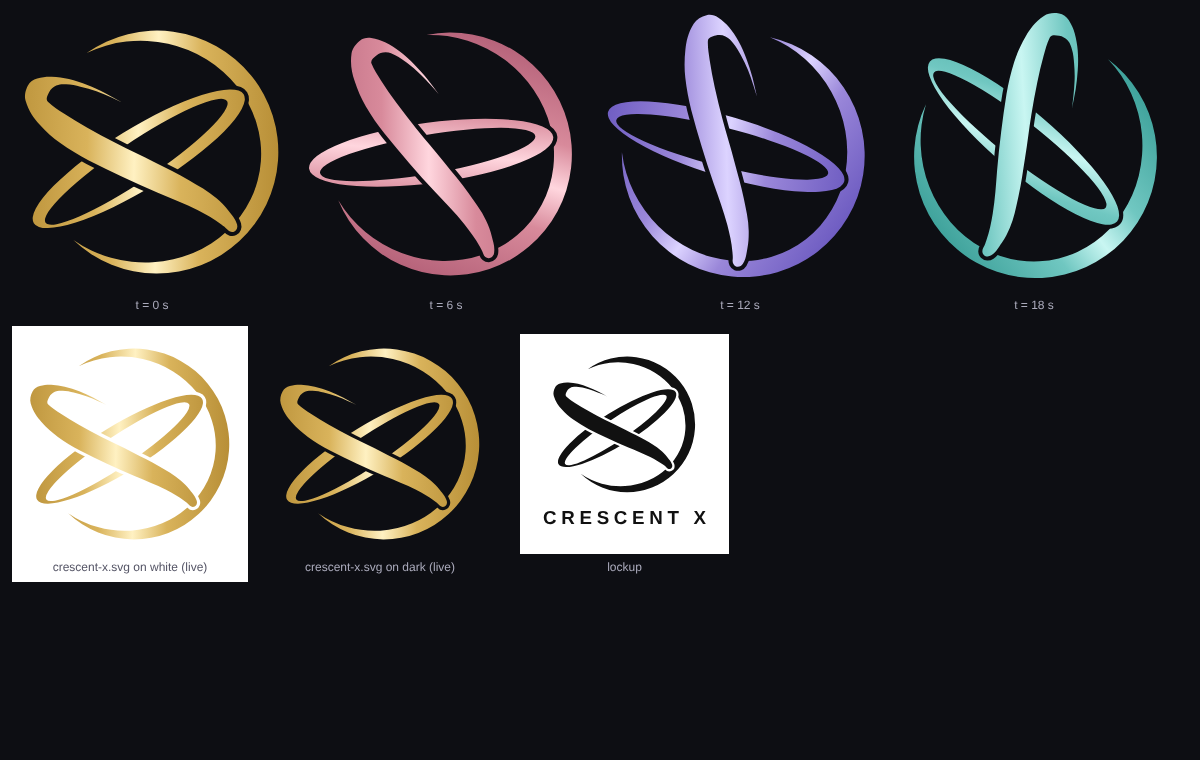
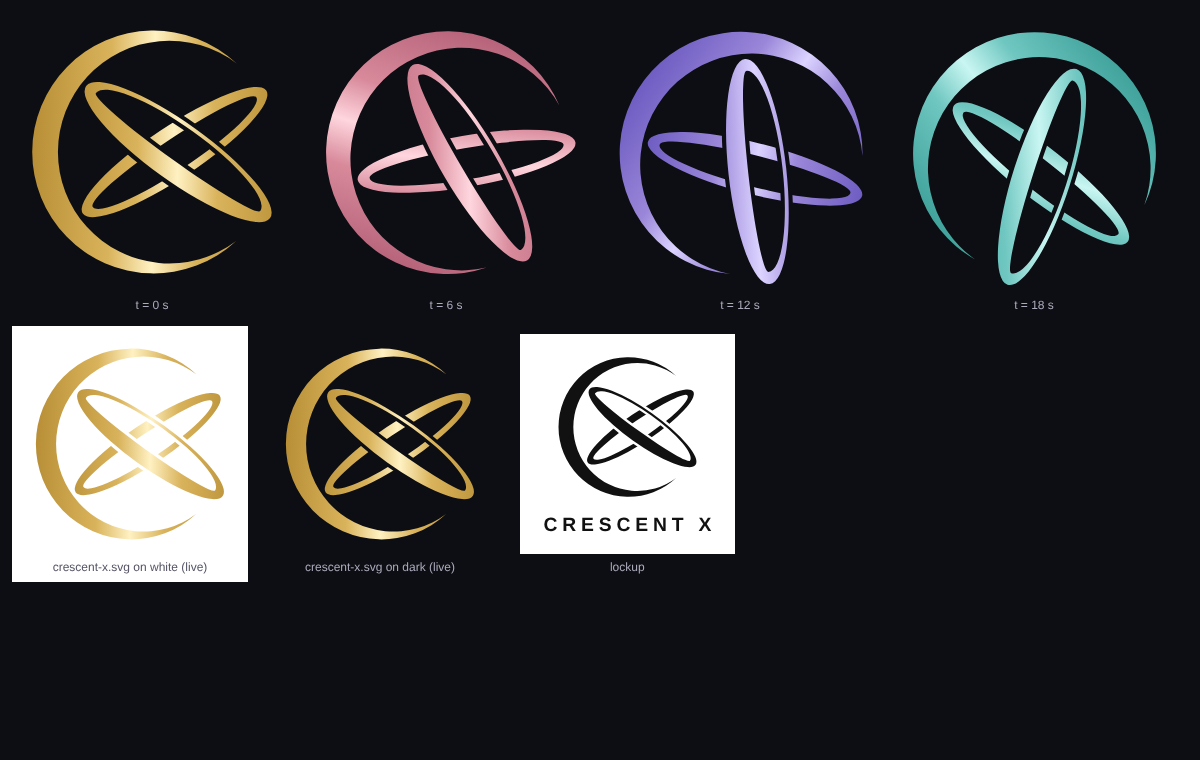
Finish the Crescent X mark: flipped crescent, inset rings, teal variant, animation
Crescent now faces right with mirrored horns; rings sit inside the opening
with matching junctions. Adds the teal colour variant, lockup, animated
mark with slow spin and colour cycle, and the frames proof.

Claude-Session: https://claude.ai/code/session_01HJ7svxD6zD3sQmr4yuV3M5

diff --git a/brand/work/crescent-x/final/preview.html b/brand/work/crescent-x/final/preview.html
@@ -47,9 +47,9 @@
 </div>
 <div class="box colour"><span class="lab">crescent-x-colour.svg</span><img src="crescent-x-colour.svg"></div>
 <div class="box lockup"><span class="lab">lockup</span><img src="crescent-x-lockup.svg"></div>
-<div class="box zoom" style="left:10px"><span class="lab">x1 tip / crescent (top-left)</span><img src="crescent-x-mono.svg" style="width:768px;height:768px;left:-103px;top:-144px"></div>
-<div class="box zoom" style="left:250px"><span class="lab">x2 tip / crescent (bottom-left)</span><img src="crescent-x-mono.svg" style="width:768px;height:768px;left:-96px;top:-453px"></div>
-<div class="box zoom" style="left:490px"><span class="lab">X centre weave</span><img src="crescent-x-mono.svg" style="width:768px;height:768px;left:-289px;top:-304px"></div>
-<div class="box zoom" style="left:730px"><span class="lab">x2 end / upper horn</span><img src="crescent-x-mono.svg" style="width:768px;height:768px;left:-550px;top:-170px"></div>
-<div class="box zoom" style="left:970px"><span class="lab">x1 end / lower horn</span><img src="crescent-x-mono.svg" style="width:768px;height:768px;left:-557px;top:-449px"></div>
+<div class="box zoom" style="left:10px"><span class="lab">x1 tip / crescent (top-left)</span><img src="crescent-x-mono.svg" style="width:768px;height:768px;left:-99px;top:-139px"></div>
+<div class="box zoom" style="left:250px"><span class="lab">x2 tip / crescent (bottom-left)</span><img src="crescent-x-mono.svg" style="width:768px;height:768px;left:-92px;top:-462px"></div>
+<div class="box zoom" style="left:490px"><span class="lab">X centre weave</span><img src="crescent-x-mono.svg" style="width:768px;height:768px;left:-291px;top:-304px"></div>
+<div class="box zoom" style="left:730px"><span class="lab">x2 end / upper horn</span><img src="crescent-x-mono.svg" style="width:768px;height:768px;left:-555px;top:-161px"></div>
+<div class="box zoom" style="left:970px"><span class="lab">x1 end / lower horn</span><img src="crescent-x-mono.svg" style="width:768px;height:768px;left:-568px;top:-454px"></div>
 </body></html>

diff --git a/brand/work/crescent-x/final/gen_mark.py b/brand/work/crescent-x/final/gen_mark.py
@@ -49,10 +49,13 @@ R = 222.0            # crescent outer radius
 HORN_DEG = 47.0      # horn tips at +/- HORN_DEG from the horizontal (about 1:25 and 4:35 o'clock)
 THICK = 47.0         # maximum crescent thickness, at 9 o'clock (10.6 % of the outer diameter)
 
-# rings: outer ellipse A x B, lens a x b, lens offset d along the ring's +n axis, tilt th (deg)
-# (+n = (-sin th, cos th): down-left for the descending ring, down-right for the ascending one)
-X1 = dict(A=200.0, B=49.0, a=179.0, b=24.0, d=-19.0, th=35.0)   # thick (+n) lower-left edge 44 u, thin 6 u
-X2 = dict(A=196.0, B=48.0, a=176.0, b=30.0, d=6.0, th=-33.0)    # thick (-n) upper-left edge 24 u, thin 12 u
+# rings: outer ellipse A x B; lens = two half-ellipses of half-length a sharing their tips on the
+# ring's long axis, semi-minor bt on the thick side and bn on the thin side; side = +1 / -1 says
+# which side of the axis (+n = (-sin th, cos th): down-left for the descending ring, down-right
+# for the ascending one) carries the thick band; th = tilt (deg).  Band thickness at the centre:
+# thick B - bt, thin B - bn; the thin edge stays >= its centre value all the way to the tips.
+X1 = dict(A=207.0, B=53.0, a=185.0, bt=17.0, bn=46.5, side=+1, th=35.5)   # descending: thick lower-left edge 36 u, thin 6.5 u
+X2 = dict(A=202.0, B=47.0, a=180.0, bt=24.0, bn=33.0, side=-1, th=-34.0)  # ascending: thick upper-left edge 23 u, thin 14 u
 
 TITLE = "Crescent X"
 ARIA = "Crescent X, the Kubrique logo mark: a lunar crescent facing right and two interlocking orbital rings forming an X"
@@ -138,12 +141,35 @@ def crescent_path(O, I):
     return d, [("outer", outer), ("inner", inner)], horns
 
 
+class Lens:
+    """two half-ellipses (same centre, tilt and half-length a) sharing their tips on the long axis:
+    semi-minor b_plus on the +n side (local t in [0, pi)), b_minus on the -n side"""
+    def __init__(self, cx, cy, a, b_plus, b_minus, th_deg):
+        self.P, self.M = Ell(cx, cy, a, b_plus, th_deg), Ell(cx, cy, a, b_minus, th_deg)
+        self.cx, self.cy, self.a, self.th = cx, cy, a, th_deg
+
+    def pt(self, t):
+        t = t % (2 * math.pi)
+        return (self.P if t < math.pi else self.M).pt(t)
+
+    def inside(self, p):
+        x, y = self.P.local(p)
+        b = self.P.b if y >= 0 else self.M.b
+        return (x / self.a) ** 2 + (y / b) ** 2 < 1.0
+
+    def whole(self):
+        p0 = self.P.pt(0.0)
+        return f"M{f(p0[0])} {f(p0[1])} {self.P.arc(0.0, math.pi)} {self.M.arc(math.pi, 0.0)} Z"
+
+    def poly(self, n=720):
+        return [self.pt(2 * math.pi * i / n) for i in range(n + 1)]
+
+
 def ring(spec, cx, cy):
     """outer ellipse and lens for a ring spec centred at (cx, cy)"""
-    th = math.radians(spec["th"])
-    nx, ny = -math.sin(th), math.cos(th)
     E = Ell(cx, cy, spec["A"], spec["B"], spec["th"])
-    L = Ell(cx + spec["d"] * nx, cy + spec["d"] * ny, spec["a"], spec["b"], spec["th"])
+    bp, bm = (spec["bt"], spec["bn"]) if spec["side"] > 0 else (spec["bn"], spec["bt"])
+    L = Lens(cx, cy, spec["a"], bp, bm, spec["th"])
     return E, L
 
 
@@ -361,7 +387,6 @@ LK_SCALE, LK_FS, LK_LS = 1.5, 92.0, 0.25
 LK_CAP = 0.70 * LK_FS                       # Montserrat / Jost cap height ~0.70 em
 LK_TOP = 111.0                              # top margin to the mark's top (= bottom margin below the baseline)
 LK_X = (1024 - 512 * LK_SCALE) / 2
-LK_Y = LK_TOP - _by0 * LK_SCALE - 256 * LK_SCALE + 256 * LK_SCALE  # placeholder, fixed below
 
 
 def svg_lockup(ink=INK):
@@ -369,9 +394,9 @@ def svg_lockup(ink=INK):
     bottom_of_mark = 256 + _by1
     ty = LK_TOP - top_of_mark * LK_SCALE
     mark_bottom = ty + bottom_of_mark * LK_SCALE
-    gap = 1.5 * LK_CAP
-    baseline = mark_bottom + gap + LK_CAP
-    height = baseline + LK_TOP
+    height = 10 * math.ceil((mark_bottom + 1.5 * LK_CAP + LK_CAP + LK_TOP) / 10)   # round canvas height
+    baseline = height - LK_TOP
+    gap = baseline - LK_CAP - mark_bottom               # >= 1.5 cap heights of clear space
     return f'''<svg xmlns="http://www.w3.org/2000/svg" xmlns:xlink="http://www.w3.org/1999/xlink" viewBox="0 0 1024 {f(height)}" width="1024" height="{f(height)}" role="img" aria-label="{ARIA}, with the wordmark CRESCENT X">
   <title>{TITLE}</title>
 {WEAVE_COMMENT}
@@ -505,17 +530,15 @@ def diagnostics():
         best, where, bad = ring_clearance(E)
         tip = min(E.poly(720), key=lambda p: p[0])
         end = max(E.poly(720), key=lambda p: p[0])
-        worst = 99
-        for i in range(720):
-            q = L.pt(2 * math.pi * i / 720)
-            x, y = E.local(q)
-            k = 1 / math.sqrt((x / E.a) ** 2 + (y / E.b) ** 2)
-            worst = min(worst, (k - 1) * math.hypot(x, y))
-        out.append(f"{name}: centre ({E.cx:.1f},{E.cy:.1f}) tilt {spec['th']} deg, bands {spec['B'] - spec['b'] + abs(spec['d']):.0f} / "
-                   f"{spec['B'] - spec['b'] - abs(spec['d']):.0f} u, thinnest {worst:.1f} u; left tip ({tip[0]:.1f},{tip[1]:.1f}) "
+        outer = E.poly(1440)
+        worst = min(min(math.hypot(q[0] - p[0], q[1] - p[1]) for p in outer[::4]) for q in L.poly(360))
+        cres = [p for _, pts in CRES_EDGES for p in pts[::2]]
+        right = min(min(math.hypot(q[0] - p[0], q[1] - p[1]) for p in cres) for q in outer[::4] if q[0] > E.cx)
+        out.append(f"{name}: centre ({E.cx:.1f},{E.cy:.1f}) tilt {spec['th']} deg, bands {spec['B'] - spec['bt']:.0f} / "
+                   f"{spec['B'] - spec['bn']:.0f} u at the centre, thinnest edge {worst:.1f} u; left tip ({tip[0]:.1f},{tip[1]:.1f}) "
                    f"clearance to the crescent {best:.1f} u at ({where[0]:.0f},{where[1]:.0f}); right tip ({end[0]:.1f},{end[1]:.1f}) "
-                   f"at r = {math.hypot(end[0] - CO.cx, end[1] - CO.cy) / R:.3f} R, {math.degrees(math.atan2(end[1] - CO.cy, end[0] - CO.cx)):.1f} deg; "
-                   f"points inside the crescent: {bad}")
+                   f"at r = {math.hypot(end[0] - CO.cx, end[1] - CO.cy) / R:.3f} R, {math.degrees(math.atan2(end[1] - CO.cy, end[0] - CO.cx)):.1f} deg, "
+                   f"right half clears the crescent by {right:.1f} u; points inside the crescent: {bad}")
     xs = [p[0] for p in _pts]
     ys = [p[1] for p in _pts]
     out.append(f"bbox x {OX + min(xs):.1f}..{OX + max(xs):.1f}  y {OY + min(ys):.1f}..{OY + max(ys):.1f}  "
